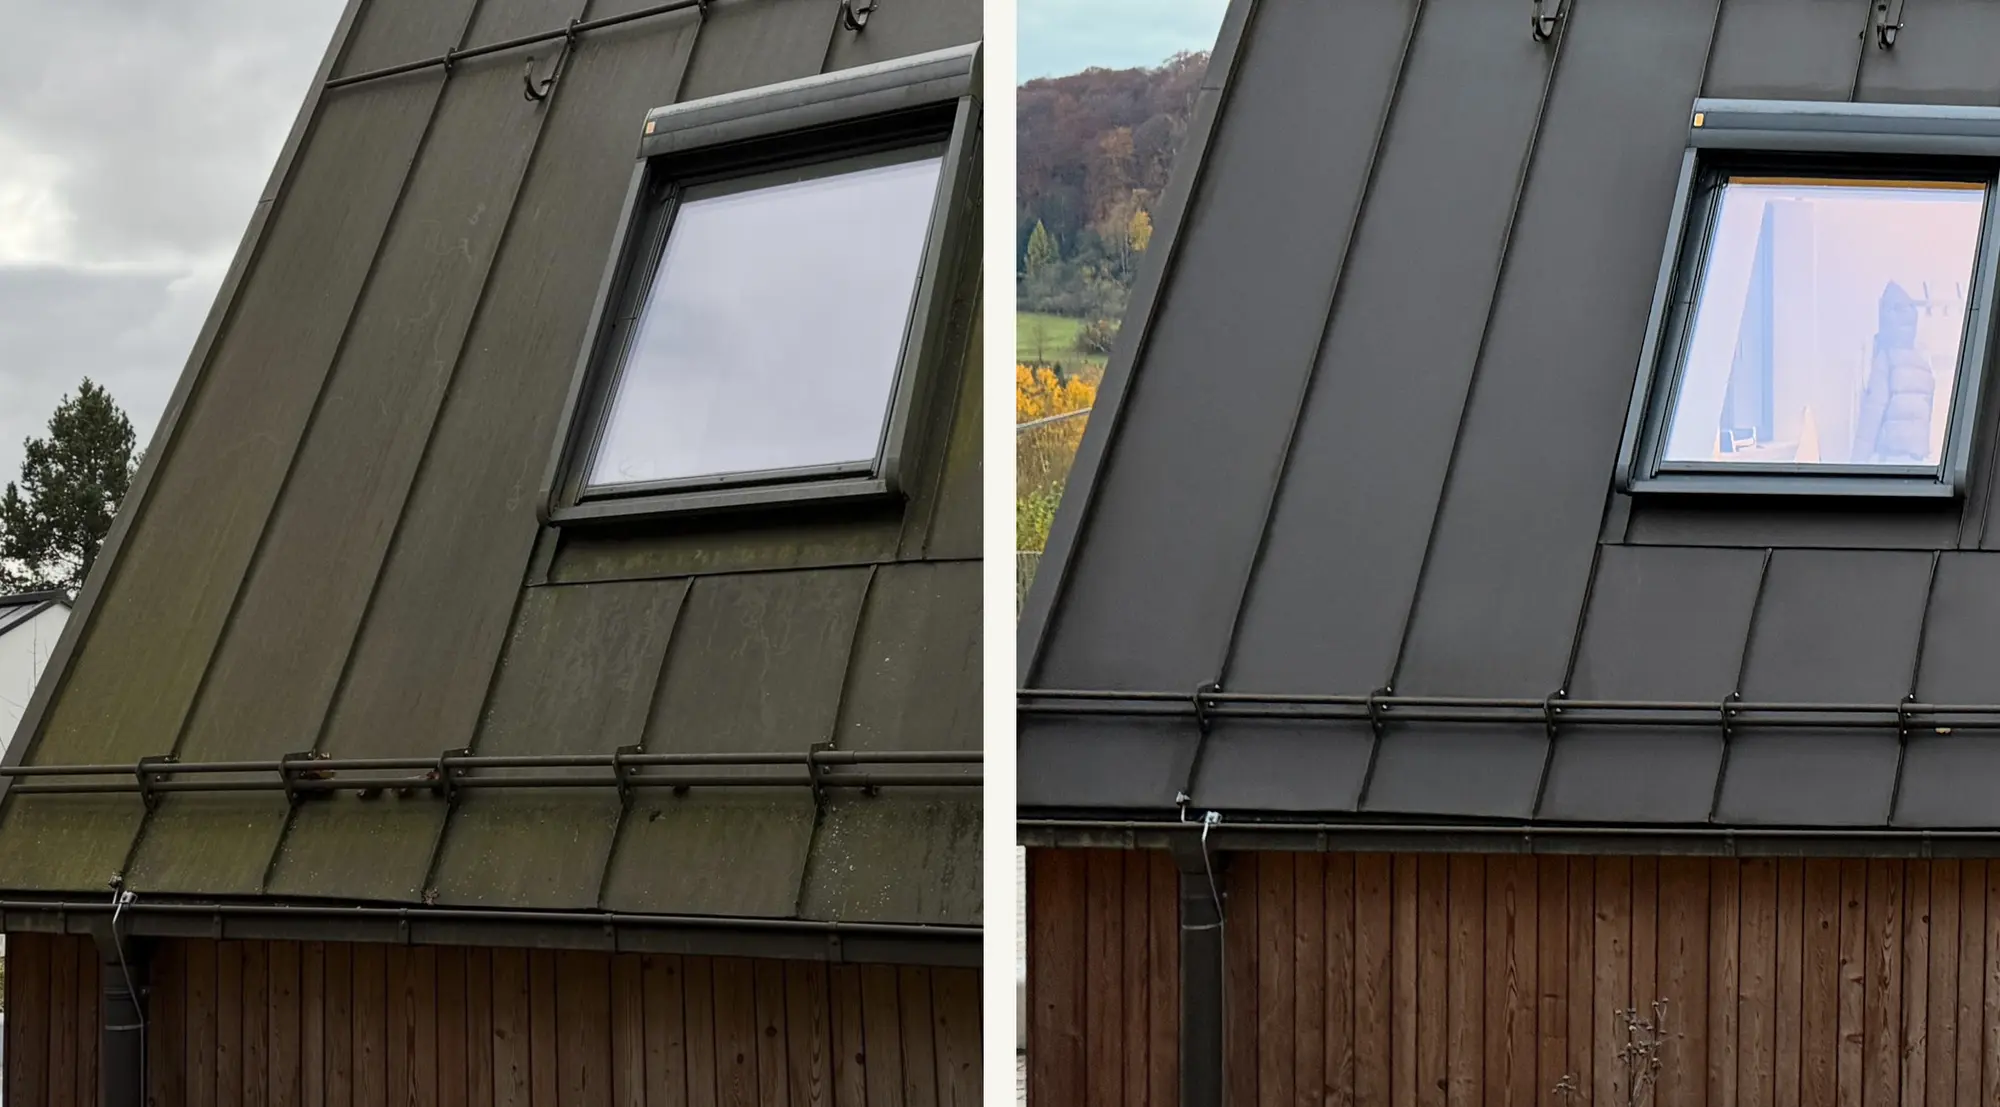
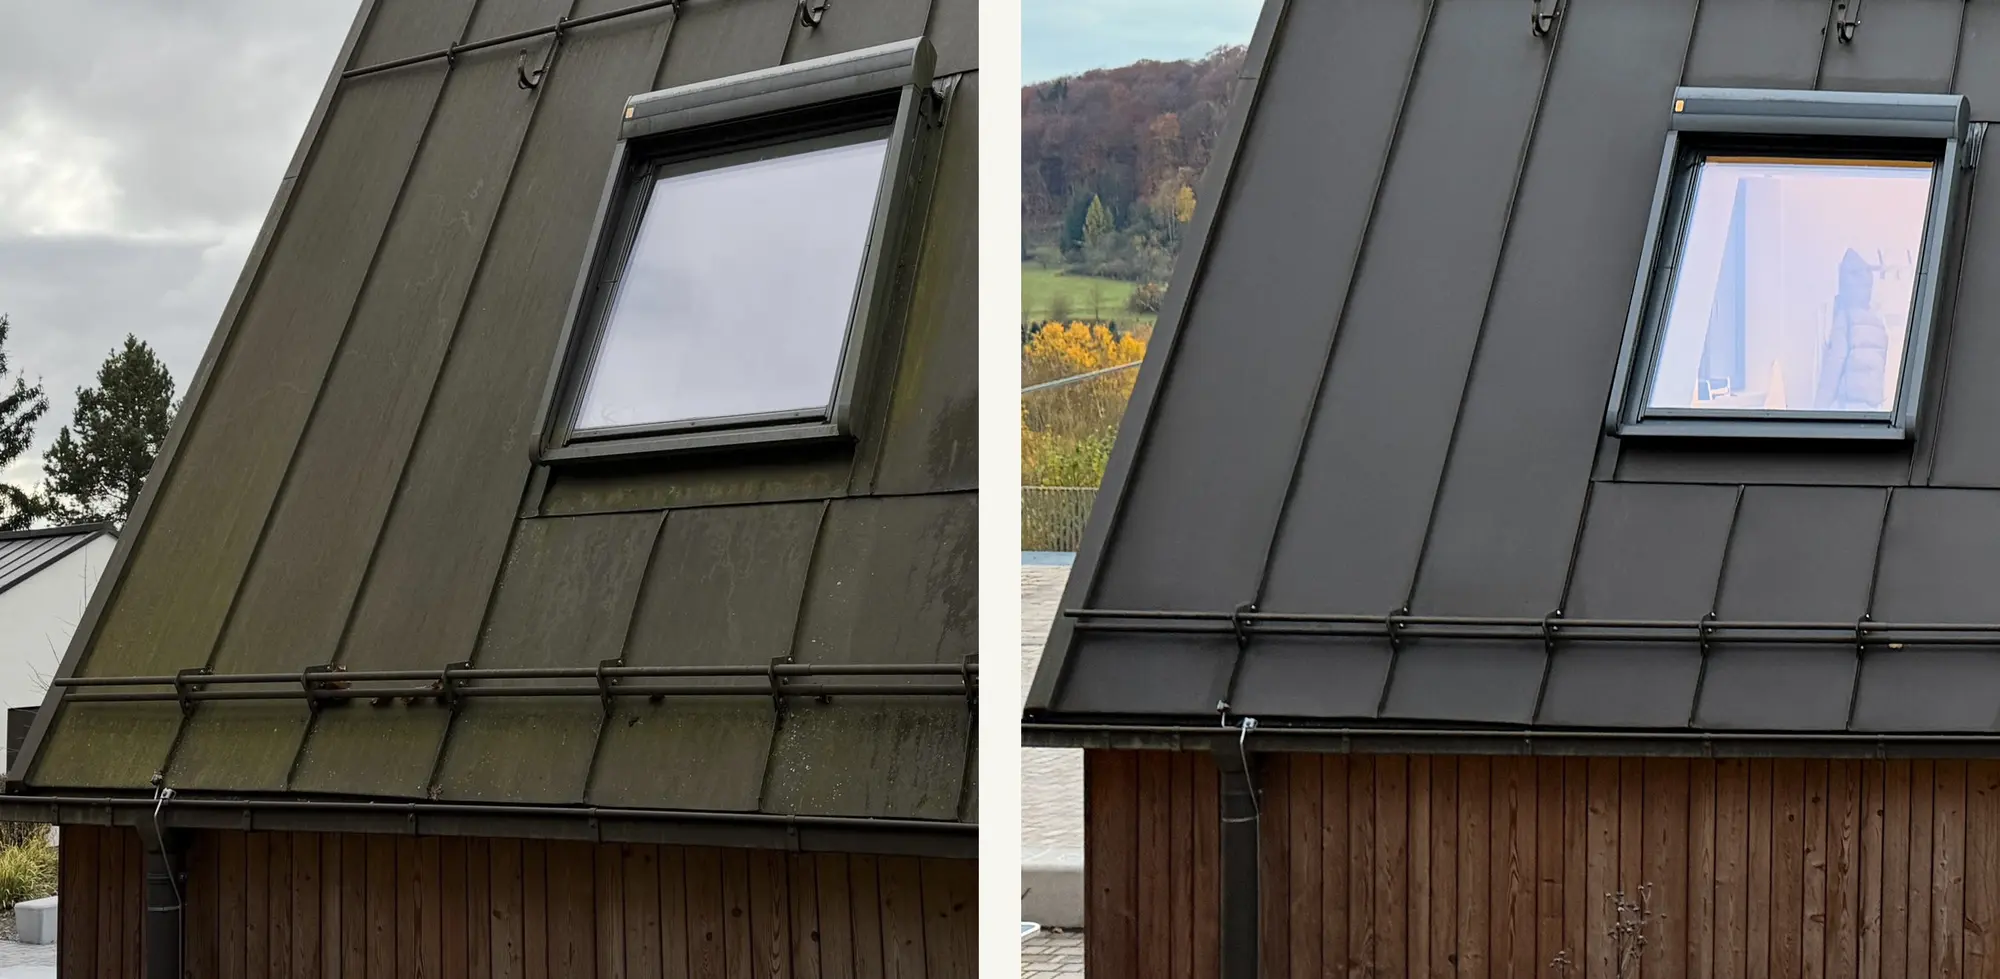
Vorher/Nachher-Bild auf Dächer-Hauptseite deutlich weniger aggressiv zuschneiden
Statt beide Fotos hart auf ein schmales Hochformat zu pressen, jetzt
nur noch sanft auf ein fast quadratisches Format zugeschnitten (an der
jeweils kürzeren Seite orientiert) – beide Dachflächenfenster und viel
mehr vom Dach bleiben vollständig sichtbar. Bildunterschrift ergänzt:
"wenige Stunden später" um die Schnelligkeit der Reinigung zu betonen.

Claude-Session: https://claude.ai/code/session_01EYqoVsTLoWpRzmf7nQhqMt

diff --git a/src/pages/leistungen/daecher.html b/src/pages/leistungen/daecher.html
@@ -86,7 +86,7 @@ pagecss: pages.css
       <div class="ba-photo reveal-scale" style="border-radius:0;">
         <div class="img-placeholder"><img loading="lazy" decoding="async" src="{{PREFIX}}assets/img/daecher-blechdach-moos-vorher-nachher.webp" alt="Blechdach Vorher/Nachher – von starkem Moos- und Grünbelag befreit" style="position:absolute;inset:0;width:100%;height:100%;object-fit:cover;" /></div>
       </div>
-      <p class="ba-caption">So sieht dasselbe Dach aus, nachdem es von HausKlar professionell gereinigt wurde.</p>
+      <p class="ba-caption">So sieht dasselbe Dach wenige Stunden später aus, nachdem es von HausKlar professionell gereinigt wurde.</p>
     </div>
   </section>
 

diff --git a/dist/leistungen/daecher.html b/dist/leistungen/daecher.html
@@ -300,7 +300,7 @@
       <div class="ba-photo reveal-scale" style="border-radius:0;">
         <div class="img-placeholder"><img loading="lazy" decoding="async" src="../assets/img/daecher-blechdach-moos-vorher-nachher.webp" alt="Blechdach Vorher/Nachher – von starkem Moos- und Grünbelag befreit" style="position:absolute;inset:0;width:100%;height:100%;object-fit:cover;" /></div>
       </div>
-      <p class="ba-caption">So sieht dasselbe Dach aus, nachdem es von HausKlar professionell gereinigt wurde.</p>
+      <p class="ba-caption">So sieht dasselbe Dach wenige Stunden später aus, nachdem es von HausKlar professionell gereinigt wurde.</p>
     </div>
   </section>
 
